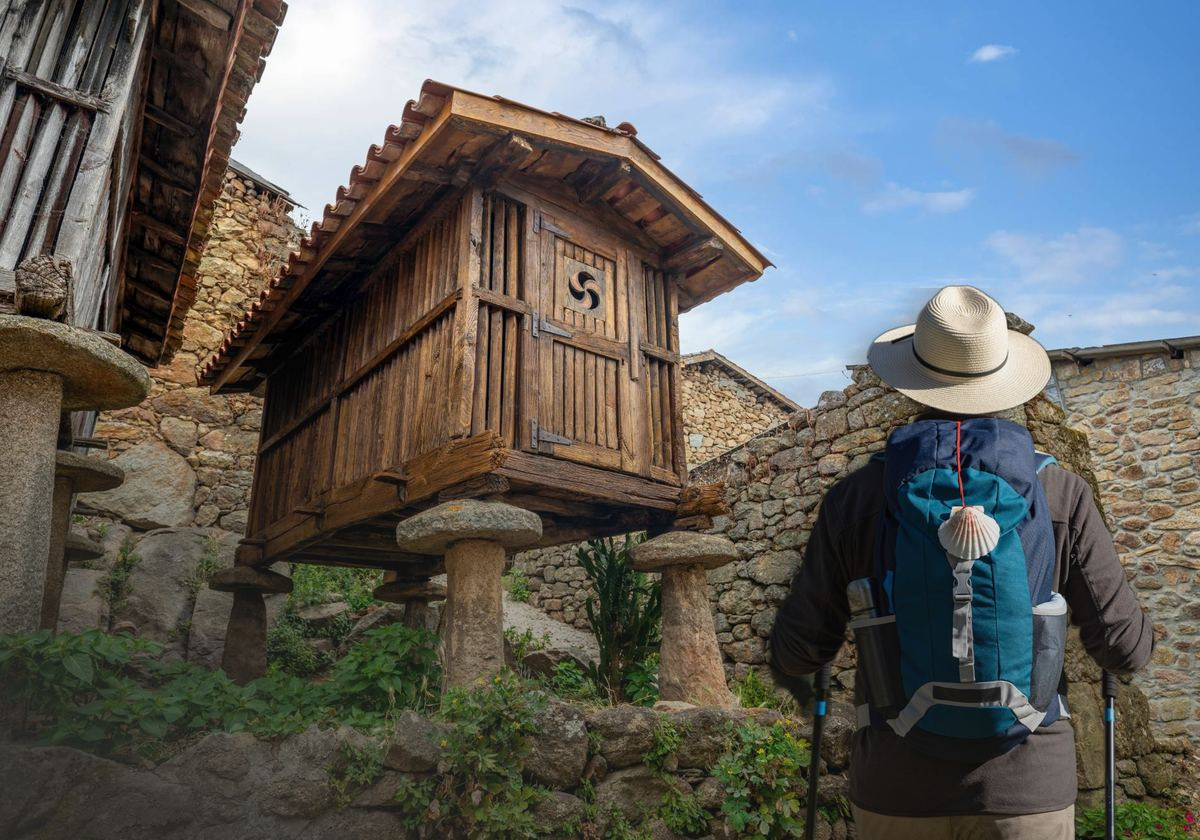
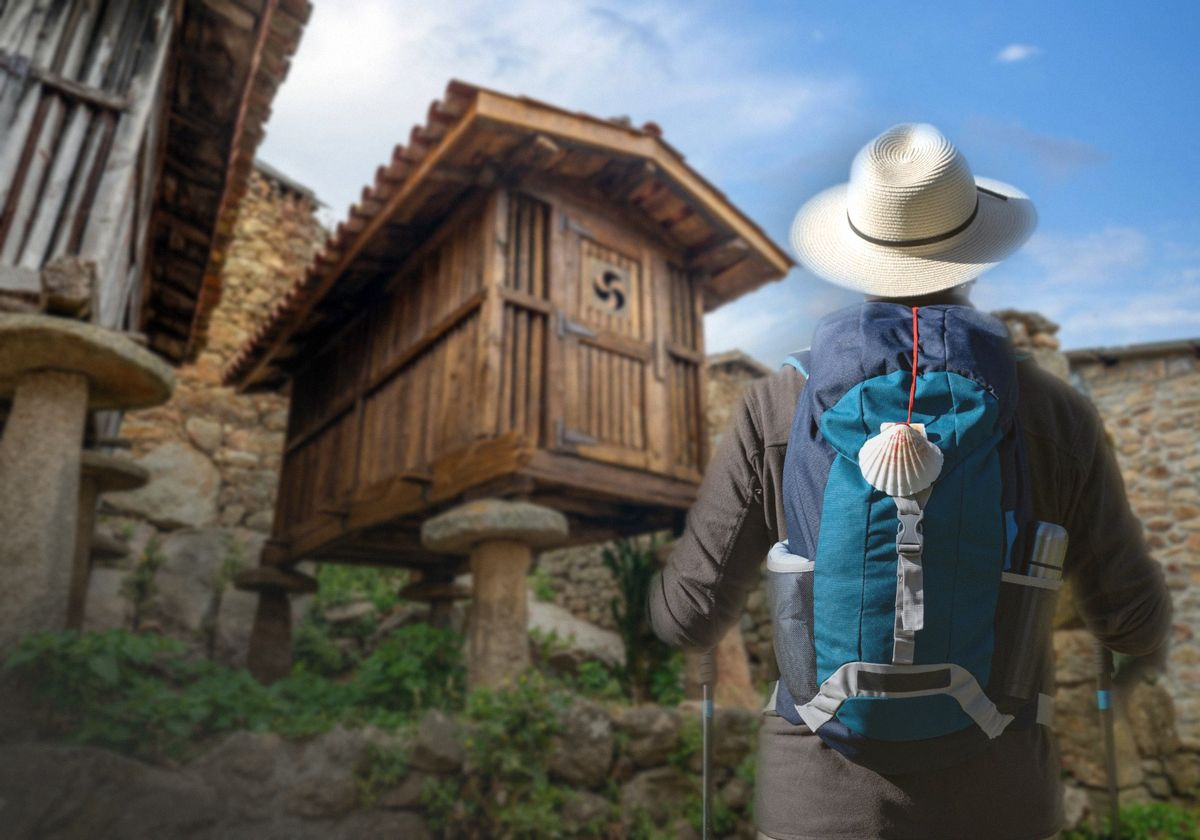
Mejora el montaje del hero y mantiene las rutas a dos columnas en móvil
Claude-Session: https://claude.ai/code/session_01Me985ukrjjPqHCtXmJhT7t

diff --git a/emails/2026-10-push-de-envio1/email.html b/emails/2026-10-push-de-envio1/email.html
@@ -30,7 +30,11 @@
       .hero-txt { width: 100% !important; padding: 0 20px 28px !important; }
       .h1 { font-size: 28px !important; line-height: 34px !important; }
       .h2 { font-size: 24px !important; line-height: 30px !important; }
-      .ruta { padding-bottom: 28px !important; }
+      .ruta { width: 48% !important; }
+      .ruta-sep { width: 4% !important; }
+      .ruta-img { width: 100% !important; max-width: 100% !important; height: auto !important; }
+      .ruta-t { font-size: 17px !important; line-height: 21px !important; }
+      .ruta-p { font-size: 14px !important; line-height: 20px !important; }
       .tel { font-size: 13px !important; }
     }
   </style>
@@ -126,18 +130,18 @@
             <td class="pad" style="padding:0 32px 40px;">
               <table role="presentation" width="100%" cellpadding="0" cellspacing="0" border="0">
                 <tr>
-                  <td class="col ruta" width="260" valign="top" style="width:260px; font-family:'Montserrat', Arial, Helvetica, sans-serif;">
-                    <a href="{{URL_RUTA_SARRIA}}" target="_blank"><img class="col-img" src="img/ruta-sarria.jpg" width="260" alt="Steinerner Wegweiser mit gelber Muschel und Pfeil, dahinter Pilger auf einem Waldweg bei Sarria" style="display:block; border:0; width:260px; max-width:260px; height:auto; border-radius:12px;"></a>
+                  <td class="ruta" width="260" valign="top" style="width:260px; font-family:'Montserrat', Arial, Helvetica, sans-serif;">
+                    <a href="{{URL_RUTA_SARRIA}}" target="_blank"><img class="ruta-img" src="img/ruta-sarria.jpg" width="260" alt="Steinerner Wegweiser mit gelber Muschel und Pfeil, dahinter Pilger auf einem Waldweg bei Sarria" style="display:block; border:0; width:260px; max-width:260px; height:auto; border-radius:12px;"></a>
                     <p style="margin:16px 0 6px; font-size:12px; line-height:16px; font-weight:700; letter-spacing:0.15em; text-transform:uppercase; color:#506718;">Letzte 100 km</p>
-                    <p style="margin:0 0 8px; font-size:22px; line-height:26px; font-weight:700;"><a href="{{URL_RUTA_SARRIA}}" target="_blank" style="color:#2E2E2D; text-decoration:none;">Ab Sarria</a></p>
-                    <p style="margin:0; font-size:15px; line-height:22px; color:#2E2E2D;">Die letzten 100 km, mit denen Sie die Compostela erhalten. Im Heiligen Jahr spüren Sie hier die Pilgerstimmung am stärksten.</p>
+                    <p class="ruta-t" style="margin:0 0 8px; font-size:22px; line-height:26px; font-weight:700;"><a href="{{URL_RUTA_SARRIA}}" target="_blank" style="color:#2E2E2D; text-decoration:none;">Ab Sarria</a></p>
+                    <p class="ruta-p" style="margin:0; font-size:15px; line-height:22px; color:#2E2E2D;">Die letzten 100 km, mit denen Sie die Compostela erhalten. Im Heiligen Jahr spüren Sie hier die Pilgerstimmung am stärksten.</p>
                   </td>
-                  <td class="sep" width="16" style="width:16px; font-size:0; line-height:0;">&nbsp;</td>
-                  <td class="col ruta" width="260" valign="top" style="width:260px; font-family:'Montserrat', Arial, Helvetica, sans-serif;">
-                    <a href="{{URL_RUTA_PORTUGUES}}" target="_blank"><img class="col-img" src="img/ruta-portugues.jpg" width="260" alt="Alte Steinbrücke über einen Fluss, dahinter ein Dorf am Portugiesischen Jakobsweg bei Sonnenuntergang" style="display:block; border:0; width:260px; max-width:260px; height:auto; border-radius:12px;"></a>
+                  <td class="ruta-sep" width="16" style="width:16px; font-size:0; line-height:0;">&nbsp;</td>
+                  <td class="ruta" width="260" valign="top" style="width:260px; font-family:'Montserrat', Arial, Helvetica, sans-serif;">
+                    <a href="{{URL_RUTA_PORTUGUES}}" target="_blank"><img class="ruta-img" src="img/ruta-portugues.jpg" width="260" alt="Alte Steinbrücke über einen Fluss, dahinter ein Dorf am Portugiesischen Jakobsweg bei Sonnenuntergang" style="display:block; border:0; width:260px; max-width:260px; height:auto; border-radius:12px;"></a>
                     <p style="margin:16px 0 6px; font-size:12px; line-height:16px; font-weight:700; letter-spacing:0.15em; text-transform:uppercase; color:#506718;">Küste und Dörfer</p>
-                    <p style="margin:0 0 8px; font-size:22px; line-height:26px; font-weight:700;"><a href="{{URL_RUTA_PORTUGUES}}" target="_blank" style="color:#2E2E2D; text-decoration:none;">Portugiesischer Jakobsweg</a></p>
-                    <p style="margin:0; font-size:15px; line-height:22px; color:#2E2E2D;">Der Favorit der deutschen Pilger, die mit uns reisen. Ruhiger, mit Küstenabschnitten und kleinen Dörfern.</p>
+                    <p class="ruta-t" style="margin:0 0 8px; font-size:22px; line-height:26px; font-weight:700;"><a href="{{URL_RUTA_PORTUGUES}}" target="_blank" style="color:#2E2E2D; text-decoration:none;">Portugiesischer Jakobsweg</a></p>
+                    <p class="ruta-p" style="margin:0; font-size:15px; line-height:22px; color:#2E2E2D;">Der Favorit der deutschen Pilger, die mit uns reisen. Ruhiger, mit Küstenabschnitten und kleinen Dörfern.</p>
                   </td>
                 </tr>
               </table>
